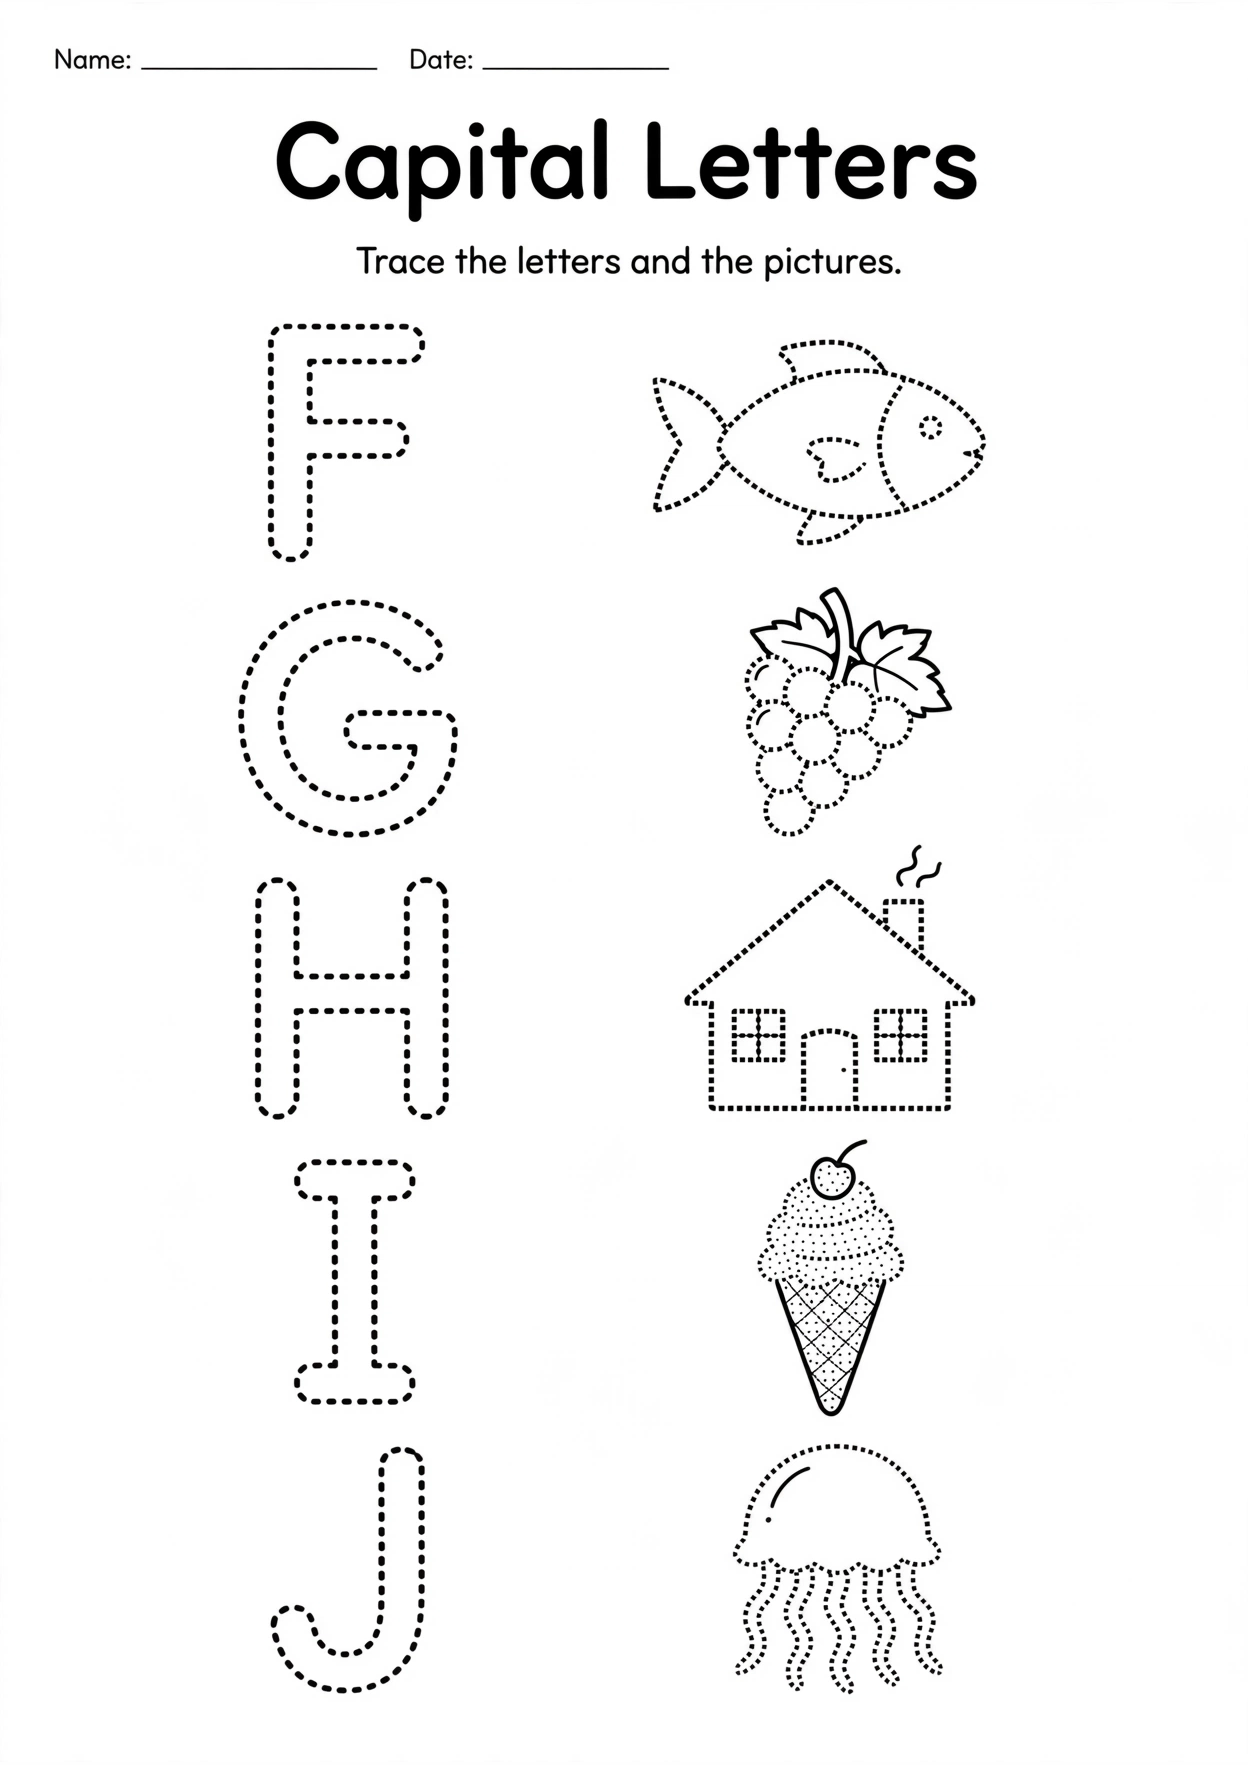
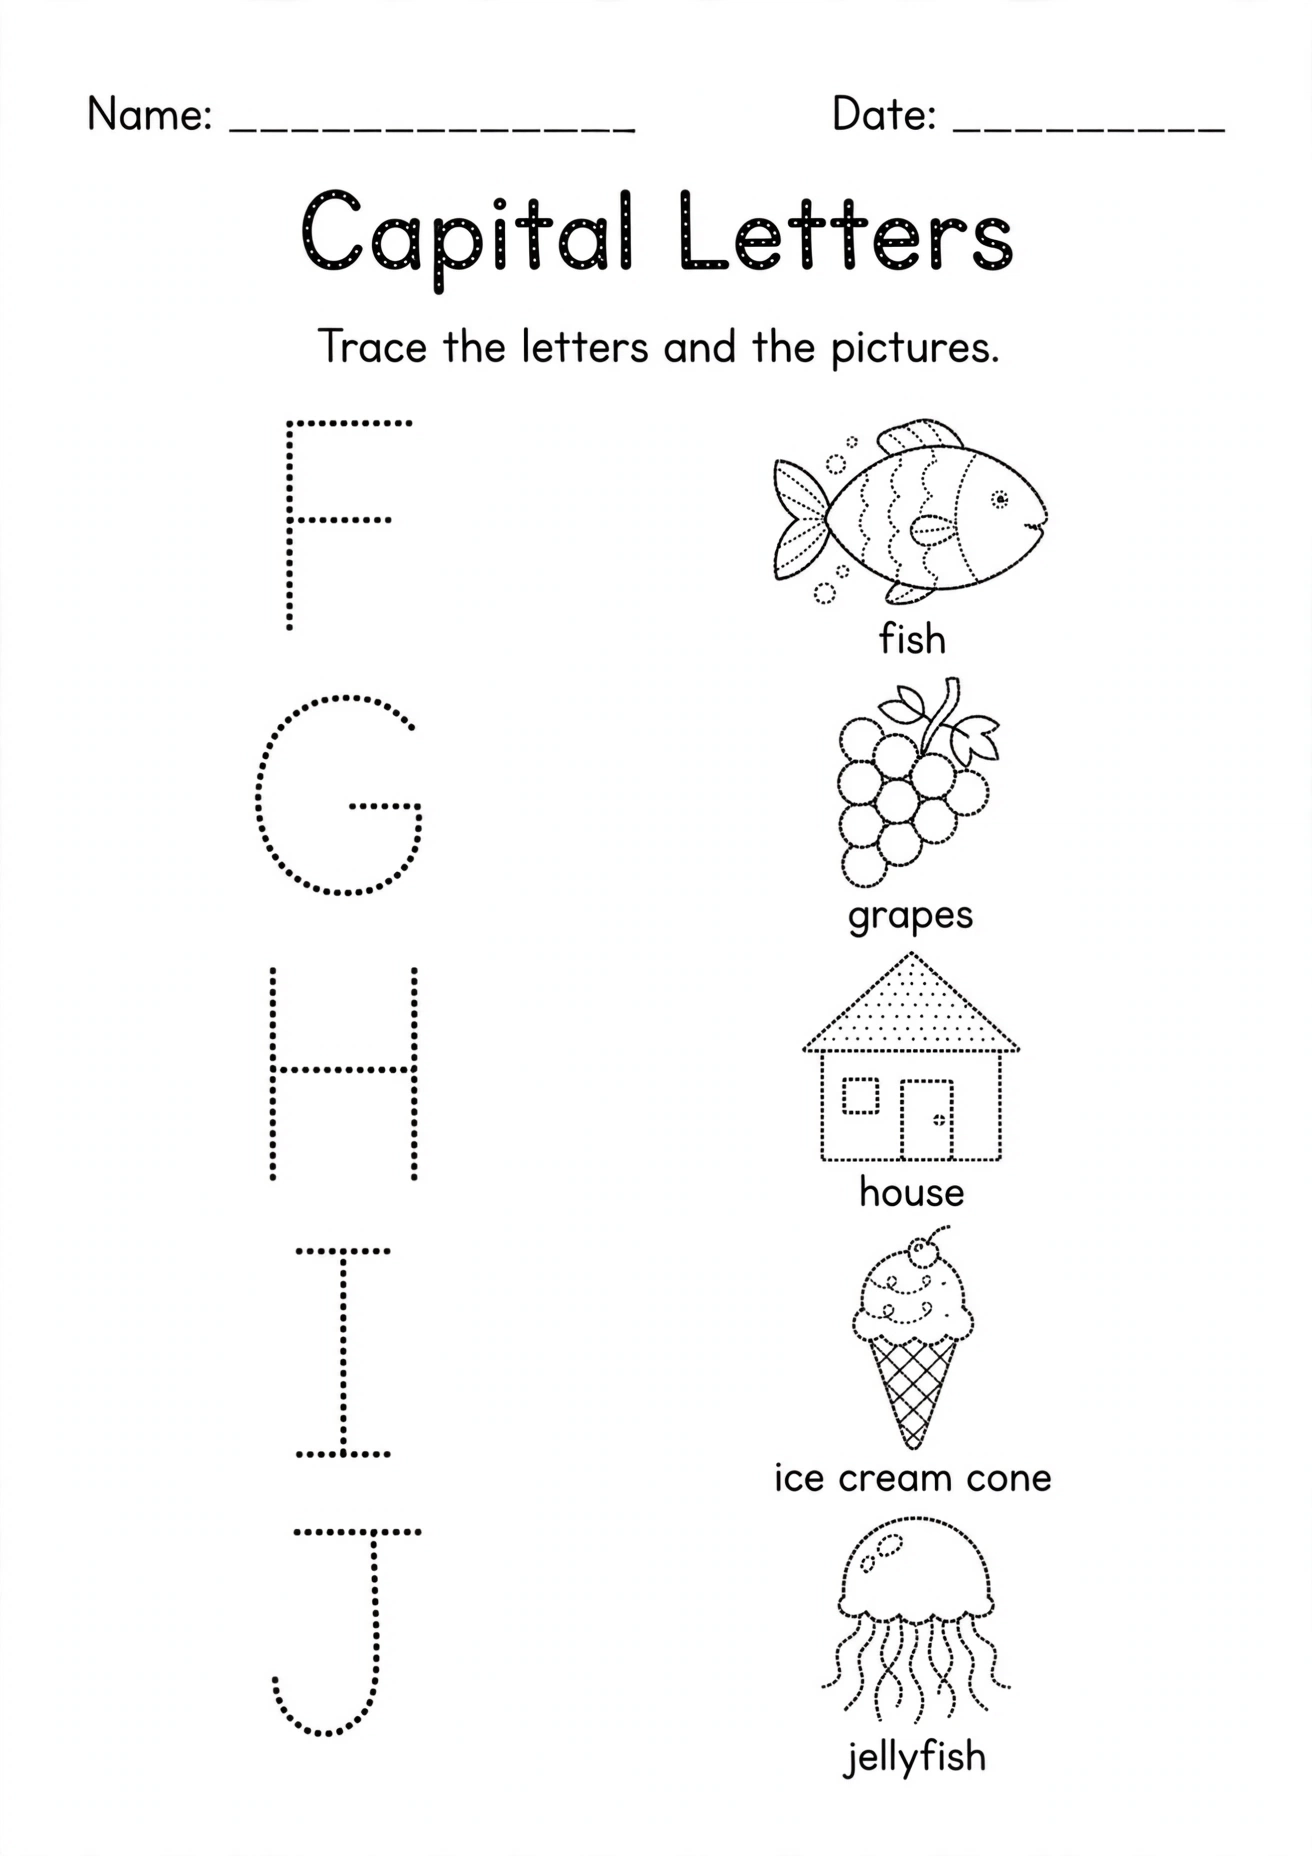
Publish 2 lowercase letter sheets and refresh the F-J capital letters sheet
Adds lowercase letters u-w (3387) and x-z (3388) tracing worksheets, read from the filenames of the six staging images that carried no §4 metadata.

The other four staging images were already on the site: cap-A-E, cap-K-O and cap-P-T are byte-identical to the live 3198/3200/3201 images, and cap-F-J is a revised render of the live Capital letters F-J sheet (picture words added, standard 1312x1856 canvas instead of 1248x1765), so 3199.png is refreshed in place rather than duplicated. Old render backed up in the tracker folder.

The importer now skips images that are byte-identical to a published one and accepts owner-read metadata for staging files that do not follow the filename convention.

Changed region(s): [[0.1875, 0.0312, 0.8125, 0.966], [0.0625, 0.0312, 0.1562, 0.0935]]

diff --git a/src/content/worksheets/lowercase-letters-u-w-tracing-3387.md b/src/content/worksheets/lowercase-letters-u-w-tracing-3387.md
@@ -1,0 +1,12 @@
+---
+title: "Lowercase letters u-w tracing"
+code: "3387"
+category: "Alphabet & Tracing"
+ageGroup: "3-4"
+date: 2026-09-26
+description: "Lowercase letters u-w tracing is a free printable english worksheet for children aged 3-4. This alphabet & tracing activity supports guided practice at home, in class, or during independent learning. It is an original worksheet prepared for FreeKidWorksheets and is marked Original."
+image: "./3387.png"
+tags: ["lowercase", "letters", "tracing", "alphabet & tracing", "3-4", "english", "kids worksheet"]
+language: "en"
+colorType: "black-and-white"
+---

diff --git a/src/content/worksheets/lowercase-letters-x-z-tracing-3388.md b/src/content/worksheets/lowercase-letters-x-z-tracing-3388.md
@@ -1,0 +1,12 @@
+---
+title: "Lowercase letters x-z tracing"
+code: "3388"
+category: "Alphabet & Tracing"
+ageGroup: "3-4"
+date: 2026-09-26
+description: "Lowercase letters x-z tracing is a free printable english worksheet for children aged 3-4. This alphabet & tracing activity supports guided practice at home, in class, or during independent learning. It is an original worksheet prepared for FreeKidWorksheets and is marked Original."
+image: "./3388.png"
+tags: ["lowercase", "letters", "tracing", "alphabet & tracing", "3-4", "english", "kids worksheet"]
+language: "en"
+colorType: "black-and-white"
+---
